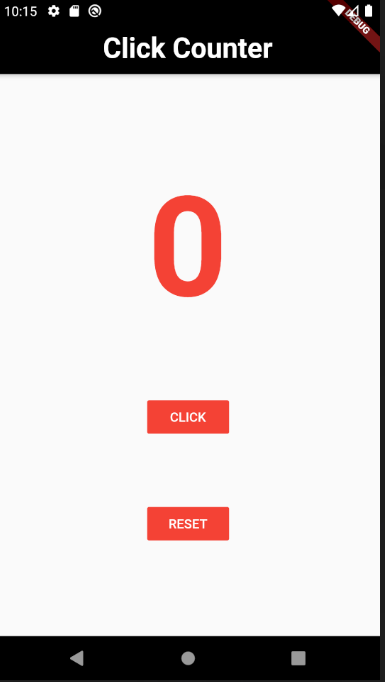
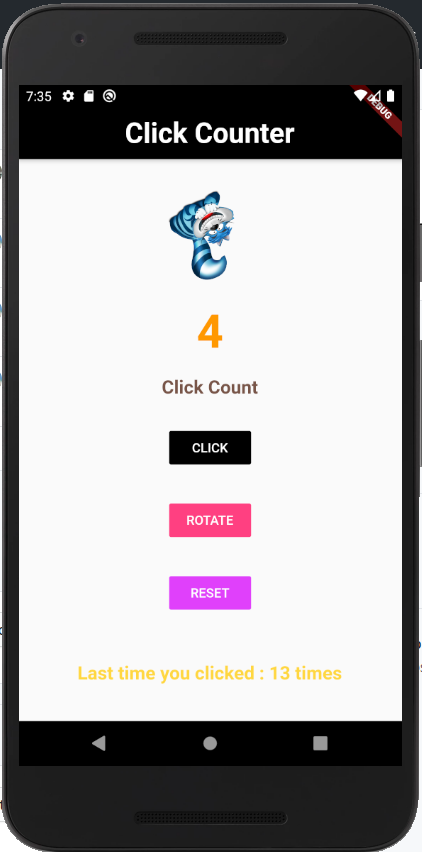
Task1+Task2+Task3 Completed

diff --git a/Flutter_app/lib/main.dart b/Flutter_app/lib/main.dart
@@ -1,8 +1,9 @@
+import 'package:flutter/cupertino.dart';
 import 'package:flutter/material.dart';
 import 'dart:math';
+import 'package:cloud_firestore/cloud_firestore.dart';
 
 int D=0;
-String Sameer = "0";
 void main() => runApp(MaterialApp(
   title: 'Click Counter',
   theme: ThemeData(
@@ -18,19 +19,63 @@ class HomeScreen extends StatefulWidget {
   HomeScreenState createState() => HomeScreenState();
 }
 
-class HomeScreenState extends State<HomeScreen> {
+class HomeScreenState extends State<HomeScreen>  with SingleTickerProviderStateMixin{
 
-  List colors = [Colors.red, Colors.green, Colors.yellow,Colors.blue,Colors.orange,Colors.brown];
-  Random random = new Random();
+  int P;
+  final database = Firestore.instance;
+  
+  AnimationController rotationController;
+  void fetchdata()async{
+    var local = await database.document('score/nx5P7Qc9R9tlRfgrYRNu').get();
+    setState(() {
+      P = local.data["Click"];
+    });
+  }
+  void initState() {
+    rotationController = AnimationController(vsync: this, duration: Duration(seconds: 5), upperBound: 2);
+    fetchdata();
 
-  int index = 0;
 
-  void changeIndex() {
-    setState(() => index = random.nextInt(6));
+    super.initState();
   }
 
+
+
+
+  List colors = [Colors.red, Colors.green, Colors.yellow,Colors.blue,Colors.orange,Colors.brown,Colors.black,Colors.pinkAccent,Colors.purpleAccent,Colors.amberAccent];
+  List coll = ['android/assets/4-2-cartoon-transparent.png',
+                     'android/assets/7-2-cartoon-picture.png',
+                     'android/assets/1 (1).png',
+                     'android/assets/1 (2).png',
+                      'android/assets/1 (3).png',
+                      'android/assets/1 (4).png',
+                       'android/assets/1 (5).png',
+                      'android/assets/1 (6).png',
+                       'android/assets/1 (7).png',
+                       'android/assets/1-2-cartoon-png-image.png'];
+
+  Widget animation_widget()
+  {
+    switch(D%2)
+    {
+      case 1: return  RotationTransition(
+          turns: Tween(begin: 0.0, end: -1.0).animate(rotationController),
+          child: Container(
+              child : Image(image : AssetImage(coll[D%10]))
+          ),
+        );
+      case 0:return RotationTransition(
+        turns: Tween(begin: 0.0, end: 1.0).animate(rotationController),
+        child : Container(
+            child : Image(image : AssetImage(coll[D%10]),)
+        ),
+      );
+    }
+  }
+
+
   @override
-  Widget build(BuildContext context) {
+   Widget build(BuildContext context) {
     return Scaffold(
       appBar: AppBar(
           title: Center(
@@ -38,54 +83,96 @@ class HomeScreenState extends State<HomeScreen> {
           )),
       body: Center(
         child: Container(
-          padding : EdgeInsets.all(30.0),
           child: Column(
             mainAxisAlignment: MainAxisAlignment.center,
             children: <Widget>[
+              Flexible(
+                  child : animation_widget(),
+                  ),
                 Flexible(
-                child:Center(
-                       child : Text(Sameer,
+                  child : Container(
+                    padding: EdgeInsets.only(top : 30.0),
+                child:Text(D.toString(),
                     style: TextStyle(
-                      fontSize: 150.0,
+                      fontSize: 50.0,
                       fontWeight: FontWeight.bold,
-                      color: colors[index],
+                      color: colors[D%10],
                     ),
                        ),
+                  ),
                 ),
-
+              Flexible(
+                child : Container(
+                  padding: EdgeInsets.only(top : 20.0,bottom: 30.0),
+                  child:Text("Click Count",
+                    style: TextStyle(
+                      fontSize: 20.0,
+                      fontWeight: FontWeight.bold,
+                      color: colors[(D+1)%10],
+                    ),
+                  ),
                 ),
-
+              ),
 
               Flexible(
-                child : Center(
+                child : Container(
+                  padding: EdgeInsets.only(bottom: 30.0),
                   child: FlatButton(
                     onPressed: () {
-                      changeIndex();
                       setState(() {
                         ++D;
-                        Sameer = D.toString();
+                        database.document('score/nx5P7Qc9R9tlRfgrYRNu').updateData({"Click": D});
+                        animation_widget();
                       });
                     },
                     child: Text("CLICK"),
-                    color: colors[index],
+                    color: colors[(D+2)%10],
                     textColor: Colors.white,
                     ),
               ),
               ),
 
               Flexible(
+                child: FlatButton(
+                  onPressed: () {
+                    setState(() {
+                      rotationController.forward(from: 0.0);
+                    });
+                  },
+                  child: Text("ROTATE"),
+                  color: colors[(D+3)%10],
+                  textColor: Colors.white,
+                ),
+              ),
+              Flexible(
+                child : Container(
+                  padding: EdgeInsets.only(top: 30.0),
                   child: FlatButton(
                     onPressed: () {
-                      changeIndex();
                       setState(() {
                         D = 0;
-                        Sameer = D.toString();
+                        database.document('score/nx5P7Qc9R9tlRfgrYRNu').updateData({"Click": D});
+                        animation_widget();
                       });
                     },
                     child: Text("RESET"),
-                    color: colors[index],
+                    color: colors[(D+4)%10],
                     textColor: Colors.white,
                   ),
+              ),
+              ),
+
+              Flexible(
+                child : Container(
+                  padding: EdgeInsets.only(top: 50.0 ),
+                  child:Text("Last time you clicked : " + P.toString() +" times" ,
+                    style: TextStyle(
+                      fontSize: 20.0,
+                      fontWeight: FontWeight.bold,
+                      color: colors[(D+5)%10],
+                    ),
+                  ),
+                ),
               ),
             ],
           ),
@@ -93,6 +180,9 @@ class HomeScreenState extends State<HomeScreen> {
       ),
     );
   }
+
 }
+
+
 
 
